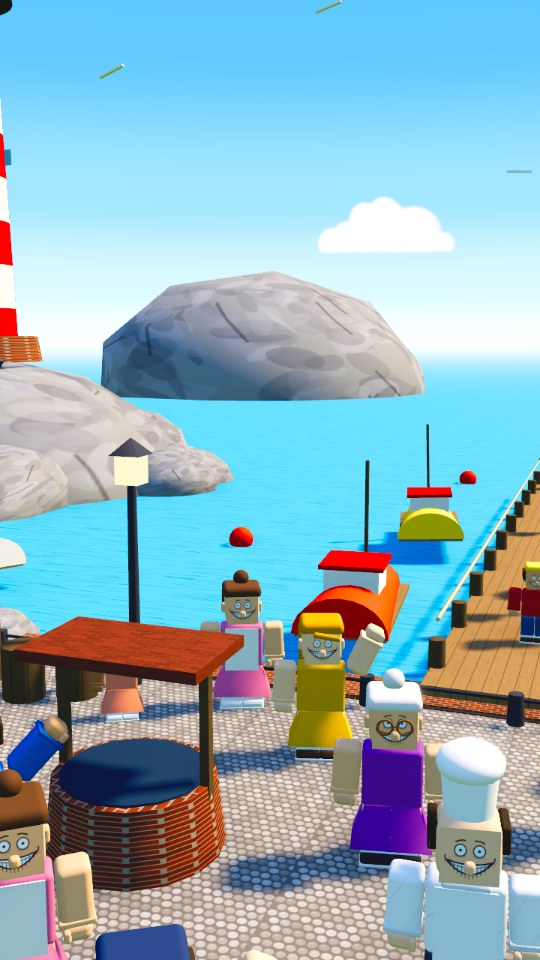
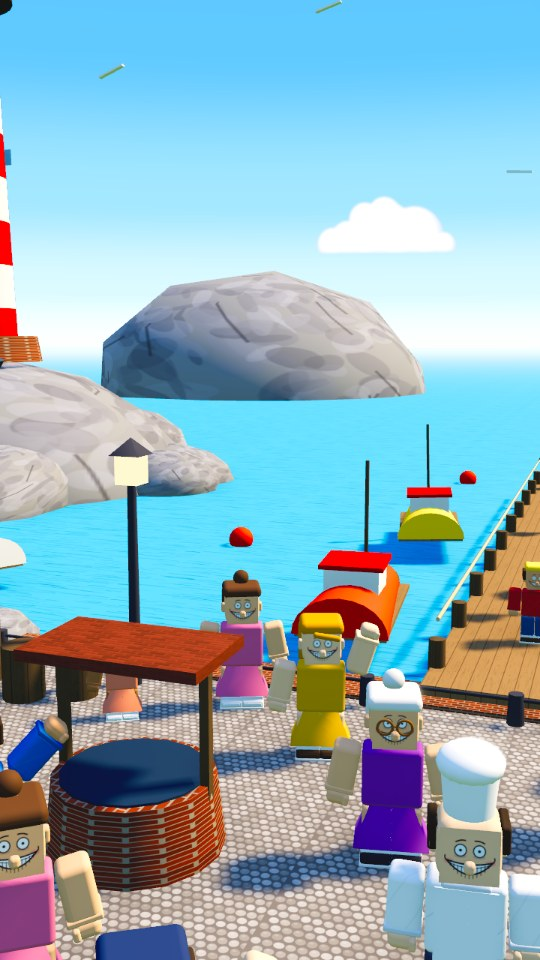
Smile preview: hero restyled (puffy black hair, open denim jacket, white tee, light jeans), no more clipping (spacing, obstacles, skirt/arms, coat/sleeves, bed, gears)
Claude-Session: https://claude.ai/code/session_015cysGVtzFBcW8zaH4Ua152

diff --git a/pisa-short/app/src/videos/smile/blocky.ts b/pisa-short/app/src/videos/smile/blocky.ts
@@ -38,6 +38,7 @@ const clothMat = (col: string, kind: "shirt" | "pants", force?: string) => {
   else if (style === "dots") { g.fillStyle = "#ffffff"; for (let y = 0; y < 256; y += 48) for (let x = (y / 48) % 2 ? 24 : 0; x < 256; x += 48) { g.beginPath(); g.arc(x + 12, y + 12, 10, 0, 7); g.fill(); } }
   else if (style === "tank") { g.fillStyle = "#f4f1ea"; g.fillRect(0, 0, 256, 256); g.fillStyle = col; g.beginPath(); g.moveTo(40, 0); g.lineTo(80, 0); g.quadraticCurveTo(128, 70, 176, 0); g.lineTo(216, 0); g.lineTo(230, 256); g.lineTo(26, 256); g.closePath(); g.fill(); }
   else if (style === "denim") { g.fillStyle = "#3d5a8a"; g.fillRect(0, 0, 256, 256); for (let k = 0; k < 3000; k++) { g.fillStyle = Math.random() < 0.5 ? "rgba(255,255,255,0.06)" : "rgba(0,0,0,0.08)"; g.fillRect(Math.random() * 256, Math.random() * 256, 2, 5); } g.strokeStyle = "rgba(230,190,120,0.6)"; g.setLineDash([6, 5]); g.lineWidth = 3; g.strokeRect(10, 10, 236, 236); }
+  else if (style === "ldenim" || style === "djacket") { g.fillStyle = col; g.fillRect(0, 0, 256, 256); for (let k = 0; k < 3500; k++) { g.fillStyle = (k * 7919) % 2 ? "rgba(255,255,255,0.10)" : "rgba(0,20,60,0.10)"; g.fillRect((k * 37) % 256, (k * 91) % 256, 2, 6); } g.strokeStyle = style === "djacket" ? "rgba(255,255,255,0.75)" : "rgba(230,190,120,0.6)"; g.setLineDash([6, 5]); g.lineWidth = 3; g.strokeRect(10, 10, 236, 236); g.setLineDash([]); }
   else if (style === "fire") { g.fillStyle = "#e9e2b0"; g.fillRect(0, 150, 256, 26); g.fillRect(0, 210, 256, 18); g.fillStyle = "#c9c9c9"; g.fillRect(0, 156, 256, 12); }
   else if (style === "metal") { const gr = g.createLinearGradient(0, 0, 256, 256); gr.addColorStop(0, light); gr.addColorStop(0.5, col); gr.addColorStop(1, dark); g.fillStyle = gr; g.fillRect(0, 0, 256, 256); g.strokeStyle = dark; g.lineWidth = 4; g.strokeRect(12, 12, 232, 232); g.fillStyle = dark; for (const [x, y] of [[24, 24], [232, 24], [24, 232], [232, 232]]) { g.beginPath(); g.arc(x, y, 6, 0, 7); g.fill(); } }
   for (let k = 0; k < 1500; k++) { g.fillStyle = k % 2 ? "rgba(0,0,0,0.05)" : "rgba(255,255,255,0.04)"; g.fillRect((k * 37) % 256, (k * 91) % 256, 2, 2); }
@@ -49,7 +50,7 @@ const faces = new Map<string, THREE.Material>();
 const faceMat = (o: Outfit, expr: Expr, lid: number, look = 0) => {
   const skin = o.skin ?? "#ffe2c2", moustache = o.moustache;
   const lk = Math.round(Math.max(-1, Math.min(1, look)) * 2) / 2;
-  const key = `${skin}|${expr}|${lid > 0.6 ? 1 : lid > 0.2 ? 0.5 : 0}|${moustache ?? ""}|${lk}|${o.blush ? 1 : 0}${o.freckles ? 1 : 0}${o.lashes ? 1 : 0}|${o.robot ? "R" : ""}|${o.handsome ? "H" : ""}`;
+  const key = `${skin}|${expr}|${lid > 0.6 ? 1 : lid > 0.2 ? 0.5 : 0}|${moustache ?? ""}|${lk}|${o.blush ? 1 : 0}${o.freckles ? 1 : 0}${o.lashes ? 1 : 0}|${o.robot ? "R" : ""}|${o.handsome ? "H" : ""}${o.chill ? "C" : ""}`;
   let m = faces.get(key);
   if (m) return m;
   const cv = document.createElement("canvas"); cv.width = cv.height = 256;
@@ -85,6 +86,25 @@ const faceMat = (o: Outfit, expr: Expr, lid: number, look = 0) => {
     g.lineWidth = 3; g.beginPath(); g.moveTo(40, 158); g.quadraticCurveTo(128, 196, 216, 158); g.stroke();
     for (let i = 1; i < 12; i++) { const x = 30 + i * 16.3, yt = 146 + 32 * (1 - ((x - 128) / 98) ** 2) * 0.95, yb = 146 + 90 * (1 - ((x - 128) / 98) ** 2) * 0.9; g.beginPath(); g.moveTo(x, yt); g.lineTo(x, Math.max(yt + 4, yb)); g.stroke(); }
     g.lineWidth = 5; for (const [x, d] of [[30, -1], [226, 1]] as const) { g.beginPath(); g.moveTo(x, 146); g.quadraticCurveTo(x + d * 10, 136, x + d * 6, 124); g.stroke(); }
+    return done();
+  }
+  if (o.chill) { // the hero, simple avatar face: calm half-lidded eyes, a small smile; wide eyes and an "o" when scared
+    const shut = lid > 0.6, scared = expr === "scared" || expr === "shock" || expr === "nervous", sad2 = expr === "teary" || expr === "sad" || expr === "cry";
+    g.fillStyle = INK; g.strokeStyle = INK; g.lineCap = "round";
+    for (const x of [92, 164]) {
+      if (shut) { g.lineWidth = 7; g.beginPath(); g.moveTo(x - 14, 108); g.quadraticCurveTo(x, 116, x + 14, 108); g.stroke(); continue; }
+      if (scared) { g.fillStyle = "#ffffff"; g.beginPath(); g.ellipse(x, 102, 16, 19, 0, 0, 7); g.fill(); g.lineWidth = 4; g.stroke(); g.fillStyle = INK; g.beginPath(); g.arc(x + lk * 4, 104, 7, 0, 7); g.fill(); continue; }
+      const px = x + lk * 5; g.beginPath(); g.ellipse(px, 106, 10, 14, 0, 0, 7); g.fill();
+      g.fillStyle = skin; g.fillRect(x - 16, 84, 32, sad2 ? 12 : 16); g.fillStyle = INK; // the half lid
+      g.lineWidth = 5; g.beginPath(); g.moveTo(x - 13, sad2 ? 96 : 100); g.lineTo(x + 13, sad2 ? 98 : 100); g.stroke();
+      g.fillStyle = "#ffffff"; g.beginPath(); g.arc(px + 3, 106, 3, 0, 7); g.fill(); g.fillStyle = INK;
+      if (sad2) { g.fillStyle = "#9fd8ff"; g.beginPath(); g.ellipse(x + 8, 132, 5, 9, 0, 0, 7); g.fill(); g.fillStyle = INK; }
+    }
+    if (scared) { g.lineWidth = 5; for (const [x, d] of [[92, 1], [164, -1]] as const) { g.beginPath(); g.moveTo(x - 14, 72 + 6 * d); g.lineTo(x + 14, 72 - 6 * d); g.stroke(); } }
+    g.lineWidth = 5;
+    if (scared) { g.fillStyle = "#5a1e28"; g.beginPath(); g.ellipse(128, 168, 9, 12, 0, 0, 7); g.fill(); g.stroke(); }
+    else if (sad2) { g.beginPath(); g.moveTo(114, 170); g.quadraticCurveTo(128, 162, 142, 170); g.stroke(); }
+    else { g.beginPath(); g.moveTo(114, 160); g.quadraticCurveTo(128, 172, 144, 158); g.stroke(); }
     return done();
   }
   if (o.handsome) { // the hero: defined brows, almond eyes with brown irises, a small nose line, a calm half smile
@@ -215,9 +235,13 @@ const GEO = {
   swoop: box(HEAD * 1.1, 0.2, HEAD * 0.78, 0.07).rotateZ(-0.14).rotateX(0.22).translate(0.04, HEAD + 0.07, 0.1),
   strand: box(0.2, 0.06, 0.07, 0.025).rotateZ(-0.7).translate(0.13, HEAD * 0.93, HEAD / 2 + 0.03),
   lock: box(0.17, 0.06, 0.36, 0.028),
-  coatF: box(0.2, TOR.h + 0.28, 0.04, 0.015).translate(0, (TOR.h - 0.28) / 2, 0),
+  coatF: box(0.25, TOR.h + 0.28, 0.04, 0.015).translate(0, (TOR.h - 0.28) / 2, 0),
   coatB: box(TOR.w + 0.08, TOR.h + 0.28, 0.04, 0.015).translate(0, (TOR.h - 0.28) / 2, -TOR.d / 2 - 0.03),
   coatS: box(0.04, TOR.h + 0.28, TOR.d + 0.08, 0.015).translate(0, (TOR.h - 0.28) / 2, 0),
+  flap: box(0.17, 0.07, 0.03, 0.01),
+  lapel: box(0.09, 0.26, 0.03, 0.01),
+  puff: new THREE.SphereGeometry(0.115, 12, 9),
+  btnF: new THREE.CylinderGeometry(0.018, 0.018, 0.012, 8).rotateX(Math.PI / 2),
   hoodB: box(0.5, 0.2, 0.18, 0.06).translate(0, TOR.h - 0.02, -TOR.d / 2 - 0.08),
   keyp: box(0.05, 0.1, 0.016, 0.01).translate(0, TOR.h - 0.3, TOR.d / 2 + 0.03),
   keys: new THREE.BoxGeometry(0.012, 0.24, 0.012).translate(0, TOR.h - 0.14, TOR.d / 2 + 0.025),
@@ -232,7 +256,7 @@ const GEO = {
   brimBack: box(HEAD * 0.9, 0.05, HEAD * 0.45, 0.02).translate(0, HEAD - 0.04, -HEAD * 0.55),
   bonnet: box(HEAD + 0.14, HEAD + 0.12, HEAD * 0.75, 0.12).translate(0, HEAD / 2 + 0.08, -HEAD * 0.2),
   beard: box(HEAD * 0.8, HEAD * 0.55, 0.12, 0.05).translate(0, 0.05, HEAD / 2 + 0.03),
-  skirt: new THREE.CylinderGeometry(TOR.w * 0.62, TOR.w * 0.95, 0.5, 4, 1).rotateY(Math.PI / 4).scale(1, 1, 0.62).translate(0, -0.22, 0),
+  skirt: new THREE.CylinderGeometry(TOR.w * 0.5, TOR.w * 0.88, 0.5, 4, 1).rotateY(Math.PI / 4).scale(1, 1, 0.62).translate(0, -0.22, 0),
   topHat: new THREE.CylinderGeometry(0.21, 0.21, 0.44, 20).translate(0, HEAD + 0.27, 0),
   topBrim: new THREE.CylinderGeometry(0.36, 0.36, 0.04, 24).translate(0, HEAD + 0.06, 0),
   topBand: new THREE.CylinderGeometry(0.215, 0.215, 0.09, 20).translate(0, HEAD + 0.12, 0),
@@ -277,7 +301,8 @@ export class Blocky {
     for (let i = 0; i < 3; i++) { const b = P("btn" + i, GEO.btn, tor); b.position.set(0, TOR.h * (0.72 - i * 0.24), TOR.d / 2 + 0.012); }
     P("tie", GEO.tie, tor); P("tieKnot", GEO.tieKnot, tor); P("waist", GEO.waist, tor); P("buckle", GEO.buckle, tor); P("apron", GEO.apron, tor); P("backpack", GEO.backpack, tor);
     P("sash", GEO.sash, tor);
-    for (const sx of [-1, 1]) { const c = P("coatF" + (sx > 0 ? "R" : "L"), GEO.coatF, tor); c.position.set(sx * (TOR.w / 2 - 0.08), 0, TOR.d / 2 + 0.03); const d = P("coatS" + (sx > 0 ? "R" : "L"), GEO.coatS, tor); d.position.x = sx * (TOR.w / 2 + 0.03); }
+    for (const sx of [-1, 1]) { const c = P("coatF" + (sx > 0 ? "R" : "L"), GEO.coatF, tor); c.position.set(sx * (TOR.w / 2 - 0.13), 0, TOR.d / 2 + 0.03); const d = P("coatS" + (sx > 0 ? "R" : "L"), GEO.coatS, tor); d.position.x = sx * (TOR.w / 2 - 0.03); d.scale.set(1, 1, 0.92); }
+    for (const sx of [-1, 1]) { const s2 = sx > 0 ? "R" : "L"; const f = P("flap" + s2, GEO.flap, tor); f.position.set(sx * (TOR.w / 2 - 0.08), TOR.h - 0.22, TOR.d / 2 + 0.055); const bt = P("btnF" + s2, GEO.btnF, tor); bt.position.set(sx * (TOR.w / 2 - 0.08), TOR.h - 0.235, TOR.d / 2 + 0.075); const l = P("lapel" + s2, GEO.lapel, tor); l.position.set(sx * 0.13, TOR.h - 0.12, TOR.d / 2 + 0.05); l.rotation.z = sx * 0.45; }
     P("coatB", GEO.coatB, tor); P("hoodB", GEO.hoodB, tor); P("keyp", GEO.keyp, tor); P("keys", GEO.keys, tor);
     for (const s of [-1, 1]) { const b = P("bow" + (s > 0 ? "R" : "L"), GEO.bow, tor); b.position.set(s * 0.09, TOR.h - 0.08, TOR.d / 2 + 0.05); b.rotation.z = s > 0 ? Math.PI : 0; }
     for (const s of [-1, 1]) { const b = P("bolt" + (s > 0 ? "R" : "L"), GEO.bolt, this.head); b.position.set(s * (HEAD / 2 + 0.04), HEAD * 0.5, 0); }
@@ -286,6 +311,7 @@ export class Blocky {
     P("hair", GEO.hair, this.head); P("fringe", GEO.fringe, this.head); P("sideL", GEO.sideL, this.head); P("sideR", GEO.sideR, this.head);
     P("hairBack", GEO.hairBack, this.head); P("longBack", GEO.longBack, this.head); P("bun", GEO.bun, this.head); P("pigL", GEO.pigL, this.head); P("pigR", GEO.pigR, this.head);
     for (let i = 0; i < 7; i++) { const sp = P("spike" + i, GEO.spike, this.head); const a = (i / 7) * Math.PI * 2; sp.position.set(Math.sin(a) * 0.16, HEAD + 0.2 + (i % 2) * 0.04, Math.cos(a) * 0.14 - 0.02); sp.rotation.set(Math.cos(a) * 0.6 - 0.2, 0, -Math.sin(a) * 0.6); }
+    for (let i = 0; i < 16; i++) { const c = P("puff" + i, GEO.puff, this.head); c.castShadow = false; const gx = (i % 4) - 1.5, gz = Math.floor(i / 4) - 1.5; c.position.set(gx * 0.155 + (Math.floor(i / 4) % 2) * 0.03, HEAD + 0.06 + 0.03 * Math.cos(i * 2.1) - Math.abs(gx) * 0.012 - (gz < -1 ? 0.03 : 0), gz * 0.15 + 0.03); c.scale.set(1, 0.85, 1); }
     P("swoop", GEO.swoop, this.head).castShadow = false; P("strand", GEO.strand, this.head).castShadow = false;
     for (const [i, x, y, z, rz, rx] of [[0, -0.14, 0.715, 0.04, -0.28, -0.12], [1, 0.03, 0.735, 0.02, -0.3, -0.18], [2, 0.18, 0.7, 0.06, -0.42, -0.12], [3, 0.08, 0.72, 0.2, -0.36, -0.42]] as const) { const l = P("lock" + i, GEO.lock, this.head); l.castShadow = false; l.position.set(x, y, z); l.rotation.set(rx, 0, rz); }
     for (let i = 0; i < 9; i++) { const c = P("curl" + i, GEO.curl, this.head); const a = (i / 9) * Math.PI * 2; c.position.set(Math.sin(a) * 0.24, HEAD * 0.95 + (i % 3) * 0.05, Math.cos(a) * 0.22 - 0.03); }
@@ -310,15 +336,19 @@ export class Blocky {
     const shirt = robot ? clothMat(o.jacket, "shirt", "metal") : o.dress ? mat(o.jacket) : clothMat(o.jacket, "shirt", o.stripes);
     p.torso.material = shirt; p.skirt.visible = !!o.dress; p.skirt.material = mat(o.dress ?? o.jacket);
     const coat = !!o.raincoat;
-    for (const n of ["coatFL", "coatFR", "coatSL", "coatSR", "coatB"]) { p[n].visible = coat; p[n].material = mat(o.raincoat ?? "#ffd23a"); }
+    const coatM = o.chill ? clothMat(o.raincoat ?? "#3f7fd6", "shirt", "djacket") : mat(o.raincoat ?? "#ffd23a");
+    for (const n of ["coatFL", "coatFR", "coatSL", "coatSR", "coatB"]) { p[n].visible = coat; p[n].material = coatM; }
+    p.lapelL.visible = p.lapelR.visible = false;
+    for (const n of ["flapL", "flapR"]) { p[n].visible = coat && !!o.chill; p[n].material = mat(shade(o.raincoat ?? "#3f7fd6", 0.86)); }
+    p.btnFL.visible = p.btnFR.visible = coat && !!o.chill; p.btnFL.material = p.btnFR.material = mat("#e8e8e8");
     p.hoodB.visible = !!o.hood; p.hoodB.material = mat(o.hood ?? o.jacket);
     p.keyp.visible = p.keys.visible = !!o.key; p.keyp.material = mat("#e9c24a", "#5a4410"); p.keys.material = mat("#2a2420");
     const sleeve0 = robot ? clothMat(o.jacket, "shirt", "metal") : o.dress ? mat(skin) : clothMat(o.jacket, "shirt", o.stripes);
-    const sleeve = coat ? mat(o.raincoat!) : sleeve0;
+    const sleeve = coat ? coatM : sleeve0;
     p.armL.material = p.armR.material = sleeve;
     p.cuffL.material = p.cuffR.material = coat ? mat(shade(o.raincoat!, 0.85)) : mat(robot ? shade(o.jacket, 0.6) : o.dress ? skin : shade(o.jacket, 0.78));
     p.handL.material = p.handR.material = p.thumbL.material = p.thumbR.material = mat(robot ? "#8a96a4" : skin);
-    p.legL.material = p.legR.material = robot ? clothMat(o.pants, "pants", "metal") : o.dress ? mat(skin) : clothMat(o.pants, "pants");
+    p.legL.material = p.legR.material = robot ? clothMat(o.pants, "pants", "metal") : o.dress ? mat(skin) : clothMat(o.pants, "pants", o.chill ? "ldenim" : undefined);
     p.shoeL.material = p.shoeR.material = mat(o.boots); p.soleL.material = p.soleR.material = mat(o.sole ?? (robot ? "#3b3f52" : "#f4f1ea")); p.toeL.material = p.toeR.material = mat(shade(o.boots, 1.25));
     p.sockL.material = p.sockR.material = mat(o.dress ? "#ffffff" : o.stripes === "dots" ? "#ff4a4a" : "#f4f1ea");
     const big = !!o.bigShoes;
@@ -327,17 +357,17 @@ export class Blocky {
     p.head.scale.set(robot ? 1.12 : 1, robot ? 1.0 : 1, robot ? 1.0 : 1);
     const expr = (s?.expr ?? f.expr ?? "neutral") as Expr, blink = Number(s?.blink ?? f.blink ?? 0);
     p.face.material = faceMat(o, expr, blink, Number(f.look ?? 0));
-    vis(["nose", "earL", "earR"], !robot); p.nose.scale.setScalar(o.handsome ? 0.75 : 1); p.nose.material = p.earL.material = p.earR.material = mat(shade(skin, 0.94));
+    vis(["nose", "earL", "earR"], !robot); p.nose.scale.setScalar(o.handsome ? 0.75 : 1); if (o.chill) p.nose.visible = false; p.nose.material = p.earL.material = p.earR.material = mat(shade(skin, 0.94));
     p.bignose.visible = !!o.clownNose; p.bignose.material = mat("#ff2a2a"); if (o.clownNose) p.nose.visible = false;
     vis(["boltL", "boltR", "antenna", "bulb"], robot); p.boltL.material = p.boltR.material = mat("#6a7480"); p.antenna.material = mat("#6a7480"); p.bulb.material = mat("#ff4a4a", "#ff2a1a");
     // ---- clothes details ----
     const det = !robot && !o.dress;
-    p.collar.visible = det || !!o.collar; p.collar.material = mat(o.collar ?? shade(o.jacket, 0.8));
+    p.collar.visible = det || !!o.collar || (coat && !!o.chill); p.collar.material = coat && o.chill ? mat(shade(o.raincoat!, 0.9)) : mat(o.collar ?? shade(o.jacket, 0.8));
     for (let i = 0; i < 3; i++) { p["btn" + i].visible = !!o.buttons || robot; p["btn" + i].material = mat(robot ? ["#ff4a4a", "#ffe14a", "#4cd06a"][i] : o.buttons ?? "#f4f1ea", robot ? ["#ff2a1a", "#ffd21a", "#2ad04a"][i] : undefined); }
     p.pocket.visible = !!o.pocket; p.pocket.material = mat(shade(o.jacket, 0.82));
     p.tie.visible = p.tieKnot.visible = !!o.tie; p.tie.material = p.tieKnot.material = mat(o.tie ?? "#d23b3b");
     p.waist.visible = p.buckle.visible = !!o.waist; p.waist.material = mat(o.waist ?? "#3a2a1e"); p.buckle.material = mat("#e9c24a");
-    p.apron.visible = !!o.apron; p.apron.material = mat(o.apron ?? "#ffffff");
+    p.apron.visible = !!o.apron && !o.dress; p.apron.material = mat(o.apron ?? "#ffffff");
     p.backpack.visible = !!o.backpack; p.backpack.material = mat(o.backpack ?? "#3f6fb5");
     p.watch.visible = !!o.watch; p.watch.material = mat(o.watch ?? "#3b3f52");
     p.bowL.visible = p.bowR.visible = !!o.clownNose; p.bowL.material = p.bowR.material = mat("#ffe14a");
@@ -346,7 +376,7 @@ export class Blocky {
     const hairOn = hat === "hair" || hat === "cap" || hat === "capback";
     vis(["hair", "fringe", "sideL", "sideR", "hairBack", "longBack", "bun", "pigL", "pigR"], false);
     for (let i = 0; i < 7; i++) p["spike" + i].visible = false;
-    vis(["swoop", "strand", "lock0", "lock1", "lock2", "lock3"], false); for (const n of ["swoop", "strand", "lock0", "lock1", "lock2", "lock3"]) p[n].material = hc;
+    vis(["swoop", "strand", "lock0", "lock1", "lock2", "lock3"], false); for (let i = 0; i < 16; i++) { p["puff" + i].visible = false; p["puff" + i].material = hc; } for (const n of ["swoop", "strand", "lock0", "lock1", "lock2", "lock3"]) p[n].material = hc;
     for (let i = 0; i < 9; i++) p["curl" + i].visible = false;
     for (let i = 0; i < 12; i++) p["wig" + i].visible = false;
     for (const n of ["hair", "fringe", "sideL", "sideR", "hairBack", "longBack", "bun", "pigL", "pigR"]) p[n].material = hc;
@@ -354,6 +384,7 @@ export class Blocky {
     if (hat === "hair") {
       if (st === "spiky") { p.hair.visible = true; for (let i = 0; i < 7; i++) { p["spike" + i].visible = true; p["spike" + i].material = hc; } }
       else if (st === "side") { p.hair.visible = p.fringe.visible = true; }
+      else if (st === "puffy") { vis(["hair", "hairBack"], true); p.sideL.visible = p.sideR.visible = true; p.sideL.scale.set(0.8, 1, 1); p.sideR.scale.set(0.8, 1, 1); for (let i = 0; i < 16; i++) p["puff" + i].visible = true; }
       else if (st === "swept") { vis(["hair", "swoop", "strand", "lock0", "lock1", "lock2", "lock3", "hairBack"], true); p.sideL.visible = p.sideR.visible = true; p.sideL.scale.set(0.7, 0.8, 1); p.sideR.scale.set(0.7, 0.8, 1); }
       else if (st === "curly" || st === "mop") { p.hair.visible = true; for (let i = 0; i < 9; i++) { p["curl" + i].visible = true; p["curl" + i].material = hc; p["curl" + i].scale.setScalar(st === "mop" ? 1.25 : 1); } }
       else if (st === "bun") { p.hair.visible = p.bun.visible = p.hairBack.visible = true; }
@@ -410,6 +441,7 @@ export class Blocky {
       if (expr === "laugh") bob += 0.02 * Math.abs(Math.sin(t * 9));
       if (robot && mode === "stand") bob += 0.006 * Math.sin(t * 13);
     }
+    if (o.dress && (mode === "stand" || mode === "walk")) { aL -= 0.14; aR += 0.14; }
     pitch += ((f.lean ?? 0) * Math.PI) / 180;
     this.armL.rotation.set(aLx, 0, aL); this.armR.rotation.set(aRx, 0, aR);
     this.legL.rotation.set(lL, 0, lLz); this.legR.rotation.set(lR, 0, lRz);

diff --git a/pisa-short/app/src/videos/smile/cast.ts b/pisa-short/app/src/videos/smile/cast.ts
@@ -3,7 +3,7 @@
 // into rigs, the dog, the cows, the duck and the small props.
 import * as THREE from "three";
 import { Pen, bodyFront, Outfit, Expr, FrontOpts, SKINS } from "./toon";
-import { FPS, V3, SC, HERO_DAY, LEO_WIN, ROOM, BED, RWIN, LHIN, smooth, clamp01, lin, linR } from "./story";
+import { OBST, FPS, V3, SC, HERO_DAY, LEO_WIN, ROOM, BED, RWIN, LHIN, smooth, clamp01, lin, linR } from "./story";
 import * as X from "./fx";
 import { NOINK } from "./ink";
 import type { RigOpts } from "./blocky";
@@ -128,7 +128,7 @@ type Mood = Expr[] | Expr;
 
 // ---------------- placements ----------------
 export type Place = {
-  key: string; draw: (p: Pen) => void; x: number; y: number; z: number;
+  nosep?: boolean; key: string; draw: (p: Pen) => void; x: number; y: number; z: number;
   scale?: number; mirror?: boolean; yaw?: number; roll?: number; size?: [number, number, number]; rig?: RigOpts;
 };
 export type FxPlace = { key: string; cw: number; ch: number; draw: (p: Pen) => void; x: number; y: number; z: number; w: number; h: number; flat?: boolean; face?: boolean; yaw?: number; rot?: number; soft?: boolean };
@@ -169,9 +169,9 @@ const word = (s: string, fill: string, p: V3, w: number, t0: number, dur = 0.8, 
 // ---------------- outfits ----------------
 const SK = ["#f6c99f", "#efb98c", "#d9a074", "#a8704a"]; void SKINS;
 /** Leo, 16: black swept hair, handsome, navy hoodie under an open yellow raincoat, black jeans, white sneakers, the key */
-const LEO: Outfit = { jacket: "#24304a", stripes: "plain", pants: "#1e1e26", boots: "#f4f1ea", sole: "#d8d4cc", hat: "hair", hairStyle: "swept", hair: "#14121a",
-  skin: "#f0c8a4", handsome: true, teen: true, raincoat: "#f0b020", hood: "#24304a", key: true };
-const LEO_BED: Outfit = { ...LEO, raincoat: undefined, hood: undefined, jacket: "#3a4a6a", pants: "#3a4a6a" };
+const LEO: Outfit = { jacket: "#f6f6f2", stripes: "plain", pants: "#b4cbe8", boots: "#f6f6f2", sole: "#e8e8e4", hat: "hair", hairStyle: "puffy", hair: "#24242c",
+  skin: "#f2d0b0", chill: true, raincoat: "#3f7fd6" };
+const LEO_BED: Outfit = { ...LEO, raincoat: undefined, jacket: "#f6f6f2", pants: "#3a4a6a" };
 const TOWN: Outfit[] = [
   { jacket: "#3f6fb5", stripes: "stripe", pants: "#3b3f52", boots: "#4a3426", hat: "cap", cap: "#24365e", moustache: "#5a3b2a", skin: SK[0], build: "stout", waist: "#3a2a1e" },                 // fisherman
   { jacket: "#e07a9a", pants: "#3b3f52", boots: "#f4f1ea", hat: "hair", hairStyle: "bun", hair: "#5a3b2a", dress: "#e07a9a", skin: SK[1], lashes: true, apron: "#fbf6ea" },                   // baker's wife
@@ -191,6 +191,20 @@ const KEEPER: Outfit = { jacket: "#2f4a3a", stripes: "plain", pants: "#3a3a42", 
 const leo = (ex: Mood, fo: Extra, p: V3, o: Outfit = LEO) => put(1, o, p, SC.hero, ex, fo);
 const creep = (i: number, p: V3, fo: Extra = {}, o?: Outfit) => put(100 + i, o ?? TOWN[i % TOWN.length], p, (o ?? TOWN[i % TOWN.length]).build === "kid" ? SC.kid : 1, "creepy", { blink: 0, look: 0, ...fo });
 
+/** keep standing figures from walking through each other: push apart any two closer than their shoulder widths */
+const separate = (ps: Place[]) => {
+  const st = ps.filter((q) => q.rig && !q.nosep && (q.rig.front?.mode ?? "stand") !== "lie");
+  for (let it = 0; it < 12; it++) for (let i = 0; i < st.length; i++) for (let j = i + 1; j < st.length; j++) {
+    const a = st[i], b2 = st[j], need = 0.64 * ((a.scale ?? 1) + (b2.scale ?? 1)), dx = b2.x - a.x, dz = b2.z - a.z, d = Math.hypot(dx, dz);
+    if (d >= need || Math.abs(a.y - b2.y) > 1.2) continue;
+    const k = (need - d) / 2 / (d || 1), ux = d ? dx : 1, uz = d ? dz : 0;
+    a.x -= ux * k; a.z -= uz * k; b2.x += ux * k; b2.z += uz * k;
+  }
+  for (const q of st) for (const [ox, oz, r] of OBST) { // and out of the well, crates, barrels, posts
+    const dx = q.x - ox, dz = q.z - oz, d = Math.hypot(dx, dz), need = r + 0.55 * (q.scale ?? 1);
+    if (d < need) { q.x = ox + (dx / (d || 1)) * need; q.z = oz + (dz / (d || 1)) * need; }
+  }
+};
 export const stage = (id: number, t: number, cam: CamInfo): Stage => {
   const out: Stage = { places: [], fx: [], ropes: [] };
   OUT = out; CAM = cam; TNOW = t;
@@ -211,24 +225,25 @@ export const stage = (id: number, t: number, cam: CamInfo): Stage => {
     }
     case 4: { // night: the whole town in pajamas, in rows, staring up at Leo's window
       for (let r = 0; r < 4; r++) for (let k = 0; k < 7; k++) {
-        const p: V3 = [-4.2 + k * 1.4 + (r % 2) * 0.5, 0, 4.6 - r * 1.35]; const i = r * 7 + k, o = TOWN[i % TOWN.length];
+        const p: V3 = [-5.1 + k * 1.7 + (r % 2) * 0.6, 0, 4.8 - r * 1.7]; const i = r * 7 + k, o = TOWN[i % TOWN.length];
         creep(i, p, { yaw: Math.atan2(LEO_WIN[0] - p[0], LEO_WIN[2] - p[2]), headTilt: -32 }, PJ(o, i));
       }
       break;
     }
     case 5: { // wide night: rows of tiny figures in the fog under the window
-      for (let r = 0; r < 3; r++) for (let k = 0; k < 9; k++) { const p: V3 = [-5.6 + k * 1.4, 0, 4.4 - r * 1.35], i = r * 9 + k; creep(i, p, { yaw: Math.atan2(LEO_WIN[0] - p[0], LEO_WIN[2] - p[2]), headTilt: -28 }, PJ(TOWN[i % TOWN.length], i)); }
+      for (let r = 0; r < 3; r++) for (let k = 0; k < 9; k++) { const p: V3 = [-6.8 + k * 1.7, 0, 4.8 - r * 1.7], i = r * 9 + k; creep(i, p, { yaw: Math.atan2(LEO_WIN[0] - p[0], LEO_WIN[2] - p[2]), headTilt: -28 }, PJ(TOWN[i % TOWN.length], i)); }
       break;
     }
-    case 6: leo("neutral", { mode: "lie", yaw: 0, blink: 1, y: 0.6 }, [BED[0], 0.62, BED[2] + 0.98], LEO_BED); break;
+    case 6: leo("neutral", { mode: "lie", yaw: 0, blink: 1, y: 0.83 }, [BED[0], 0.62, BED[2] + 1.12], LEO_BED); break;
     case 7: { // faces at the window over the sleeping boy
-      leo("neutral", { mode: "lie", yaw: 0, blink: 1, y: 0.6 }, [BED[0], 0.62, BED[2] + 0.98], LEO_BED);
+      leo("neutral", { mode: "lie", yaw: 0, blink: 1, y: 0.83 }, [BED[0], 0.62, BED[2] + 1.12], LEO_BED);
       const wz = RWIN[2] - 0.55;
-      [[-0.42, 0.0], [0.38, 0.05], [0.0, -0.12], [-0.85, -0.1], [0.82, -0.08]].forEach(([dx, dy], i) => creep(i + 3, [RWIN[0] + dx, dy - (1.62 - RWIN[1]) - 0.05, wz - Math.abs(dx) * 0.3], { yaw: 0.15 * dx, headTilt: 6 }, PJ(TOWN[(i + 3) % TOWN.length], i)));
+      [[-0.36, 0.02, 0], [0.36, 0.06, 0], [0.0, 0.14, -0.7]].forEach(([dx, dy, dz], i) => (creep(i + 3, [RWIN[0] + dx, dy - (1.62 - RWIN[1]) - 0.05, wz + dz], { yaw: 0.15 * dx, headTilt: 6 }, PJ(TOWN[(i + 3) % TOWN.length], i)).nosep = true));
       break;
     }
     case 8: put(400, KEEPER, [LHIN[0] - 1.1, 0, LHIN[2] + 0.6], 1, "neutral", { yaw: toCam([LHIN[0] - 1.1, 0, LHIN[2] + 0.6]) + 0.35, look: -0.6, blink: lidAt(t, 400) }); break;
   }
+  separate(out.places);
   void ROOM; void smooth; void clamp01; void lin; void linR; void bubble; void word; void yawTo; void mixV; void Q; void fx; void HAPPY; void SCARED; void CALM;
   return out;
 };

diff --git a/pisa-short/app/src/videos/smile/world.ts b/pisa-short/app/src/videos/smile/world.ts
@@ -311,13 +311,13 @@ export class World {
       b.add(uvBox(wx - 4, -0.2, z0 - 7, wx + 4, -0.05, z0, 1), cob);
       // bed: frame, mattress, pillow, blanket; nightstand, lamp, books, ship model, poster, rug, chair with the raincoat
       const [bx, , bz] = BED;
-      b.add(uvBox(bx - 0.6, 0, bz - 1.15, bx + 0.6, 0.35, bz + 1.1, 1), lam("sBedF", () => ({ map: plankTex("d", "#6a4a32") })));
-      b.add(uvBox(bx - 0.62, 0, bz - 1.25, bx + 0.62, 1.0, bz - 1.13, 1), lam("sBedF", () => ({ map: plankTex("d", "#6a4a32") })));
-      b.add(uvBox(bx - 0.55, 0.35, bz - 1.1, bx + 0.55, 0.55, bz + 1.05, 1), lam("sMatt", () => ({ color: "#e8e4dc" })));
-      b.add(new THREE.BoxGeometry(0.7, 0.16, 0.36).translate(bx, 0.63, bz - 0.85), lam("sPillow", () => ({ color: "#f4f1ea" })));
-      b.add(uvBox(bx - 0.6, 0.55, bz - 0.35, bx + 0.6, 0.75, bz + 1.08, 1), lam("sBlanket", () => ({ map: plankTex("e", "#3f5f9a"), color: "#9fb4e0" })));
-      b.add(uvBox(bx + 0.75, 0, bz - 1.1, bx + 1.25, 0.6, bz - 0.6, 1), wood);
-      b.add(new THREE.CylinderGeometry(0.1, 0.14, 0.32, 10).translate(bx + 1.0, 0.76, bz - 0.85), lam("sLampR", () => ({ color: "#e9cf8f" })));
+      b.add(uvBox(bx - 0.78, 0, bz - 1.15, bx + 0.78, 0.35, bz + 1.1, 1), lam("sBedF", () => ({ map: plankTex("d", "#6a4a32") })));
+      b.add(uvBox(bx - 0.8, 0, bz - 1.25, bx + 0.8, 1.0, bz - 1.13, 1), lam("sBedF", () => ({ map: plankTex("d", "#6a4a32") })));
+      b.add(uvBox(bx - 0.74, 0.35, bz - 1.1, bx + 0.74, 0.55, bz + 1.05, 1), lam("sMatt", () => ({ color: "#e8e4dc" })));
+      b.add(new THREE.BoxGeometry(0.8, 0.08, 0.6).translate(bx, 0.59, bz - 0.72), lam("sPillow", () => ({ color: "#f4f1ea" })));
+      b.add(uvBox(bx - 0.8, 0.55, bz - 0.36, bx + 0.8, 1.04, bz + 1.08, 1), lam("sBlanket", () => ({ map: plankTex("e", "#3f5f9a"), color: "#9fb4e0" })));
+      b.add(uvBox(bx + 0.9, 0, bz - 1.1, bx + 1.4, 0.6, bz - 0.6, 1), wood);
+      b.add(new THREE.CylinderGeometry(0.1, 0.14, 0.32, 10).translate(bx + 1.15, 0.76, bz - 0.85), lam("sLampR", () => ({ color: "#e9cf8f" })));
       for (let k = 0; k < 4; k++) b.add(new THREE.BoxGeometry(0.06, 0.26, 0.2).translate(rx - W2 + 0.3 + k * 0.08, 1.95, rz - 0.6), lam("sBook" + k, () => ({ color: ["#c8302c", "#2f6f8a", "#f2c94c", "#3a6a4a"][k] })));
       b.add(uvBox(rx - W2, 1.8, rz - 1.0, rx - W2 + 0.35, 1.84, rz + 0.4, 1), wood);
       b.add(new THREE.BoxGeometry(0.16, 0.18, 0.5).translate(rx - W2 + 0.18, 1.94, rz + 0.05), lam("sShip", () => ({ color: "#7a4f33" })));
@@ -340,7 +340,7 @@ export class World {
         for (let k = 0; k < 4; k++) { const sp = new THREE.Mesh(new THREE.BoxGeometry(r * 1.6, r * 0.1, 0.18), m); sp.rotation.z = (k / 4) * Math.PI; g.add(sp); }
         g.position.set(x, y, z); g.traverse((o) => { const mm = o as THREE.Mesh; if (mm.isMesh) { mm.castShadow = true; mm.receiveShadow = true; } }); R.add(g); this.gears.push(g);
       };
-      gear(ix - 1.6, 2.6, iz - 3.6, 1.1, 18, gearMat); gear(ix + 0.2, 3.3, iz - 3.7, 0.7, 12, gearD); gear(ix + 1.4, 2.2, iz - 3.55, 0.9, 15, gearMat); gear(ix - 0.4, 1.4, iz - 3.65, 0.5, 9, gearD); gear(ix + 0.9, 3.9, iz - 3.6, 0.45, 8, gearMat);
+      gear(ix - 1.4, 2.6, iz - 3.15, 1.0, 18, gearMat); gear(ix + 0.25, 3.3, iz - 3.3, 0.65, 12, gearD); gear(ix + 1.25, 2.1, iz - 3.15, 0.8, 15, gearMat); gear(ix - 0.35, 1.3, iz - 3.3, 0.45, 9, gearD); gear(ix + 0.85, 3.85, iz - 2.95, 0.4, 8, gearMat);
       // shelves of spare faces on the left wall
       for (let r2 = 0; r2 < 3; r2++) {
         const y = 1.0 + r2 * 1.05;

diff --git a/pisa-short/app/src/videos/smile/story.ts b/pisa-short/app/src/videos/smile/story.ts
@@ -33,6 +33,10 @@ export const ROOM: V3 = [80, 0, 0];   // his bedroom set (window in the -z wall)
 export const BED: V3 = [ROOM[0] + 0.6, 0, ROOM[2] + 0.4];
 export const RWIN: V3 = [ROOM[0], 1.75, ROOM[2] - 2.5];
 export const LHIN: V3 = [80, 0, 40];  // inside the lighthouse (gears, the shelves of faces)
+/** round obstacles on the ground [x, z, radius] that figures are kept out of (well, crates, barrels, lamp posts, net racks) */
+export const OBST: [number, number, number][] = [[-2, -3.5, 1.25], [5, -6, 0.6], [5.8, -6.4, 0.6], [5.3, -7.1, 0.6], [-6, -7, 0.45], [-5.2, -7.4, 0.45],
+  [-20, 0, 0.2], [-6.5, 0, 0.2], [6.5, 0, 0.2], [20, 0, 0.2], [-14, 6.4, 0.2], [14, 6.4, 0.2], [-4.5, -8.2, 0.2],
+  ...[-1.6, -0.6, 0.4, 1.4].flatMap((dx) => [[8.5 + dx, -7.5, 0.3], [-8.5 + dx, -7.5, 0.3]] as [number, number, number][])];
 export const SC = { hero: 1.0, adult: 1.0, kid: 0.72 };
 export const faceY = (sc: number) => 1.72 * sc;
 
@@ -58,11 +62,11 @@ export const camAt = (id: number, f: number): Cam => {
   const k = (f % LEN) / LEN;
   switch (id) {
     case 1: return { pos: [3.2, 6.2 - k * 0.3, 6.0], look: [-7, 1.6, -22], fov: 54, roll: 0 };
-    case 2: return orb([HERO_DAY[0], 1.78, HERO_DAY[2]], 2.7 - k * 0.1, 4, 24, 34);
+    case 2: return orb([HERO_DAY[0], 1.45, HERO_DAY[2]], 4.0 - k * 0.12, 3, 20, 36);
     case 3: return { pos: [0.7, 1.7, 2.7 - k * 0.1], look: [-0.1, 1.45, 6.4], fov: 46, roll: 0 };
     case 4: return { pos: [0.3, 5.6, 6.4], look: [-0.6, 0.4, -2.5], fov: 54, roll: 0 };
     case 5: return { pos: [2.6, 6.8, 6.6], look: [-12, 5, -26], fov: 54, roll: 0 };
-    case 6: return { pos: [BED[0] + 1.1, 1.9 - k * 0.05, BED[2] + 1.9], look: [BED[0] - 0.05, 0.75, BED[2] - 0.55], fov: 44, roll: 0 };
+    case 6: return { pos: [BED[0] + 0.8, 1.55 - k * 0.04, BED[2] + 1.5], look: [BED[0] - 0.05, 0.72, BED[2] - 0.7], fov: 44, roll: 0 };
     case 7: return { pos: [BED[0] + 1.3, 1.5, BED[2] + 2.0], look: [RWIN[0], 1.6, RWIN[2]], fov: 46, roll: 0 };
     default: return { pos: [LHIN[0] + 1.9, 1.75, LHIN[2] + 2.7], look: [LHIN[0] - 2.4, 1.7, LHIN[2] - 1.5], fov: 56, roll: 0 };
   }

diff --git a/pisa-short/app/src/videos/smile/toon.ts b/pisa-short/app/src/videos/smile/toon.ts
@@ -19,7 +19,7 @@ export type Outfit = {
   sash?: string; sword?: boolean; moustache?: string; skin?: string; head?: number; cap?: string; hair?: string; dress?: string;
   build?: Build; beard?: string; vest?: string;
   /** detailed rigs: hair style, accessories, special builds */
-  hairStyle?: "spiky" | "side" | "curly" | "bun" | "pigtails" | "bald" | "long" | "mop" | "swept"; handsome?: boolean; teen?: boolean; raincoat?: string; key?: boolean; hood?: string; glasses?: string; tie?: string; waist?: string;
+  hairStyle?: "spiky" | "side" | "curly" | "bun" | "pigtails" | "bald" | "long" | "mop" | "swept" | "puffy"; handsome?: boolean; chill?: boolean; teen?: boolean; raincoat?: string; key?: boolean; hood?: string; glasses?: string; tie?: string; waist?: string;
   collar?: string; pocket?: boolean; lashes?: boolean; freckles?: boolean; blush?: boolean; apron?: string; backpack?: string;
   bigShoes?: boolean; clownNose?: boolean; robot?: boolean; stripes?: string; sole?: string; watch?: string; scale?: number;
 };
